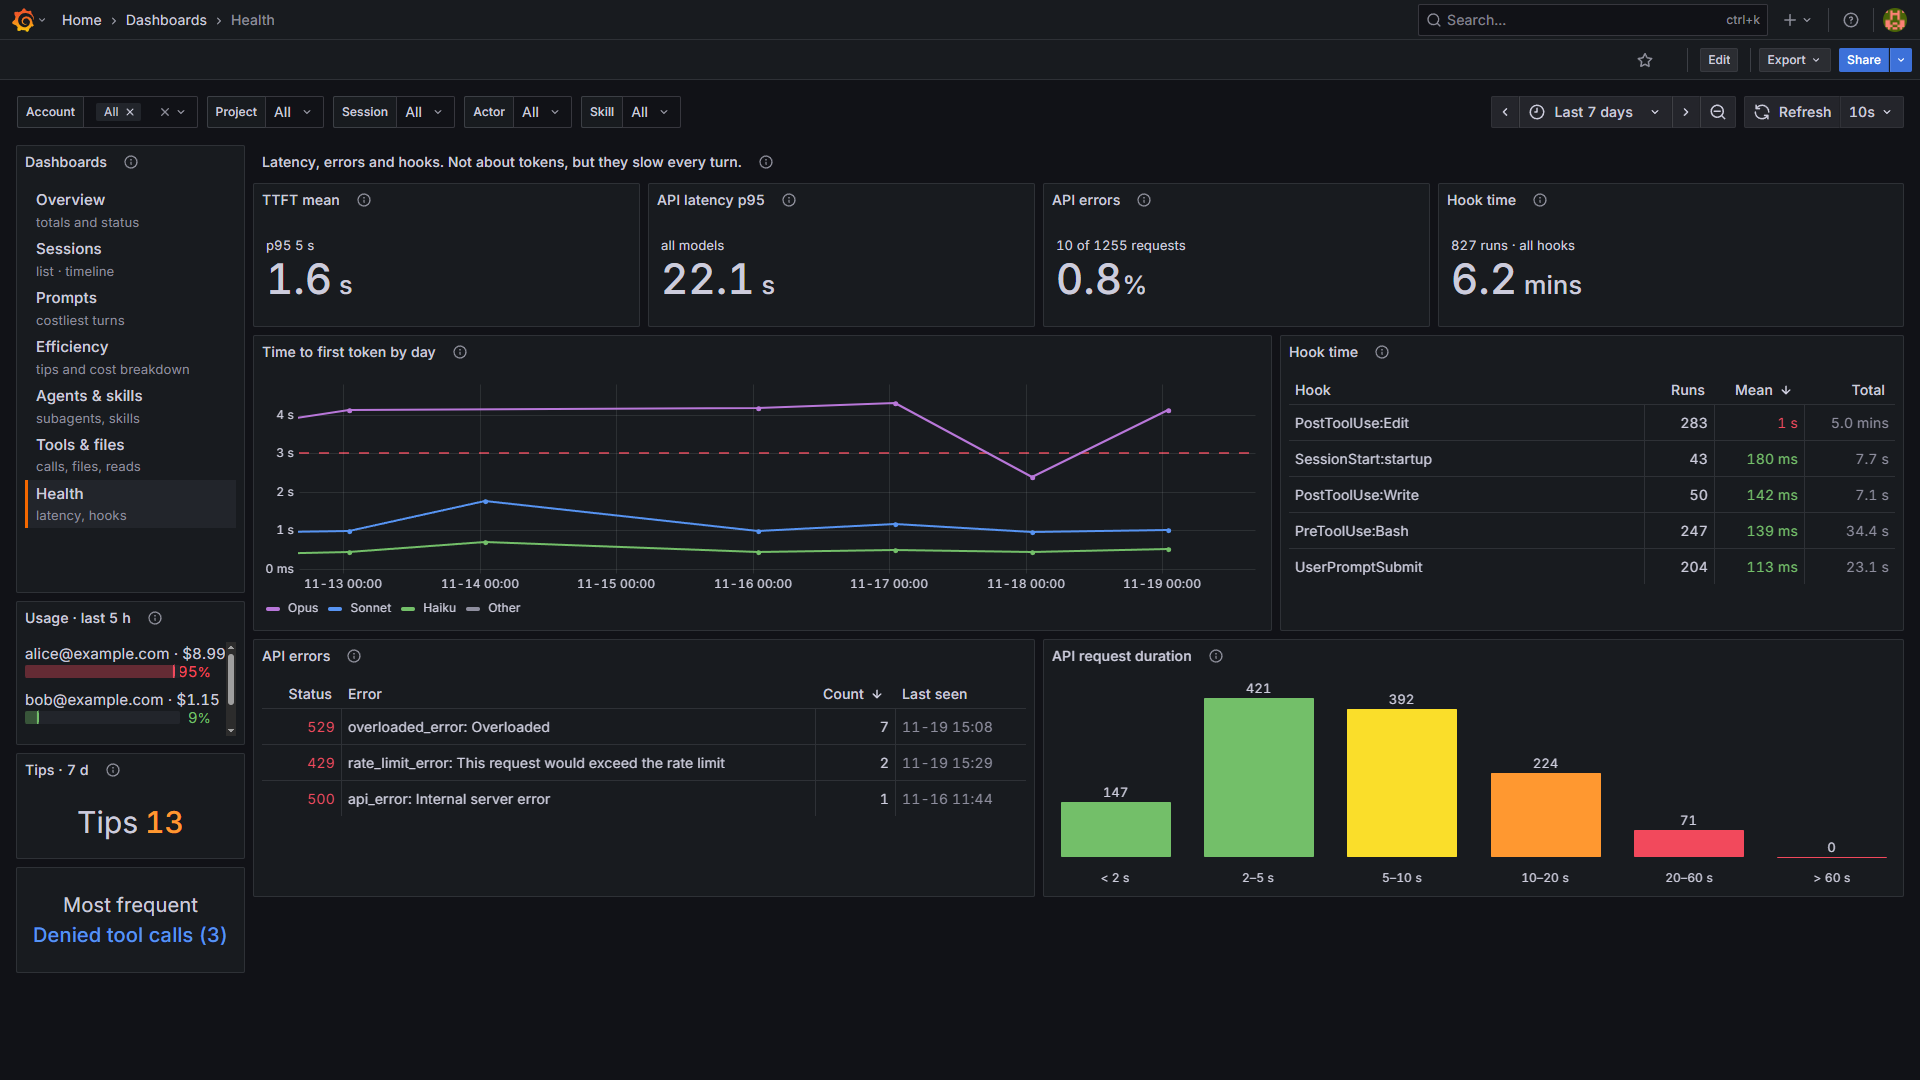
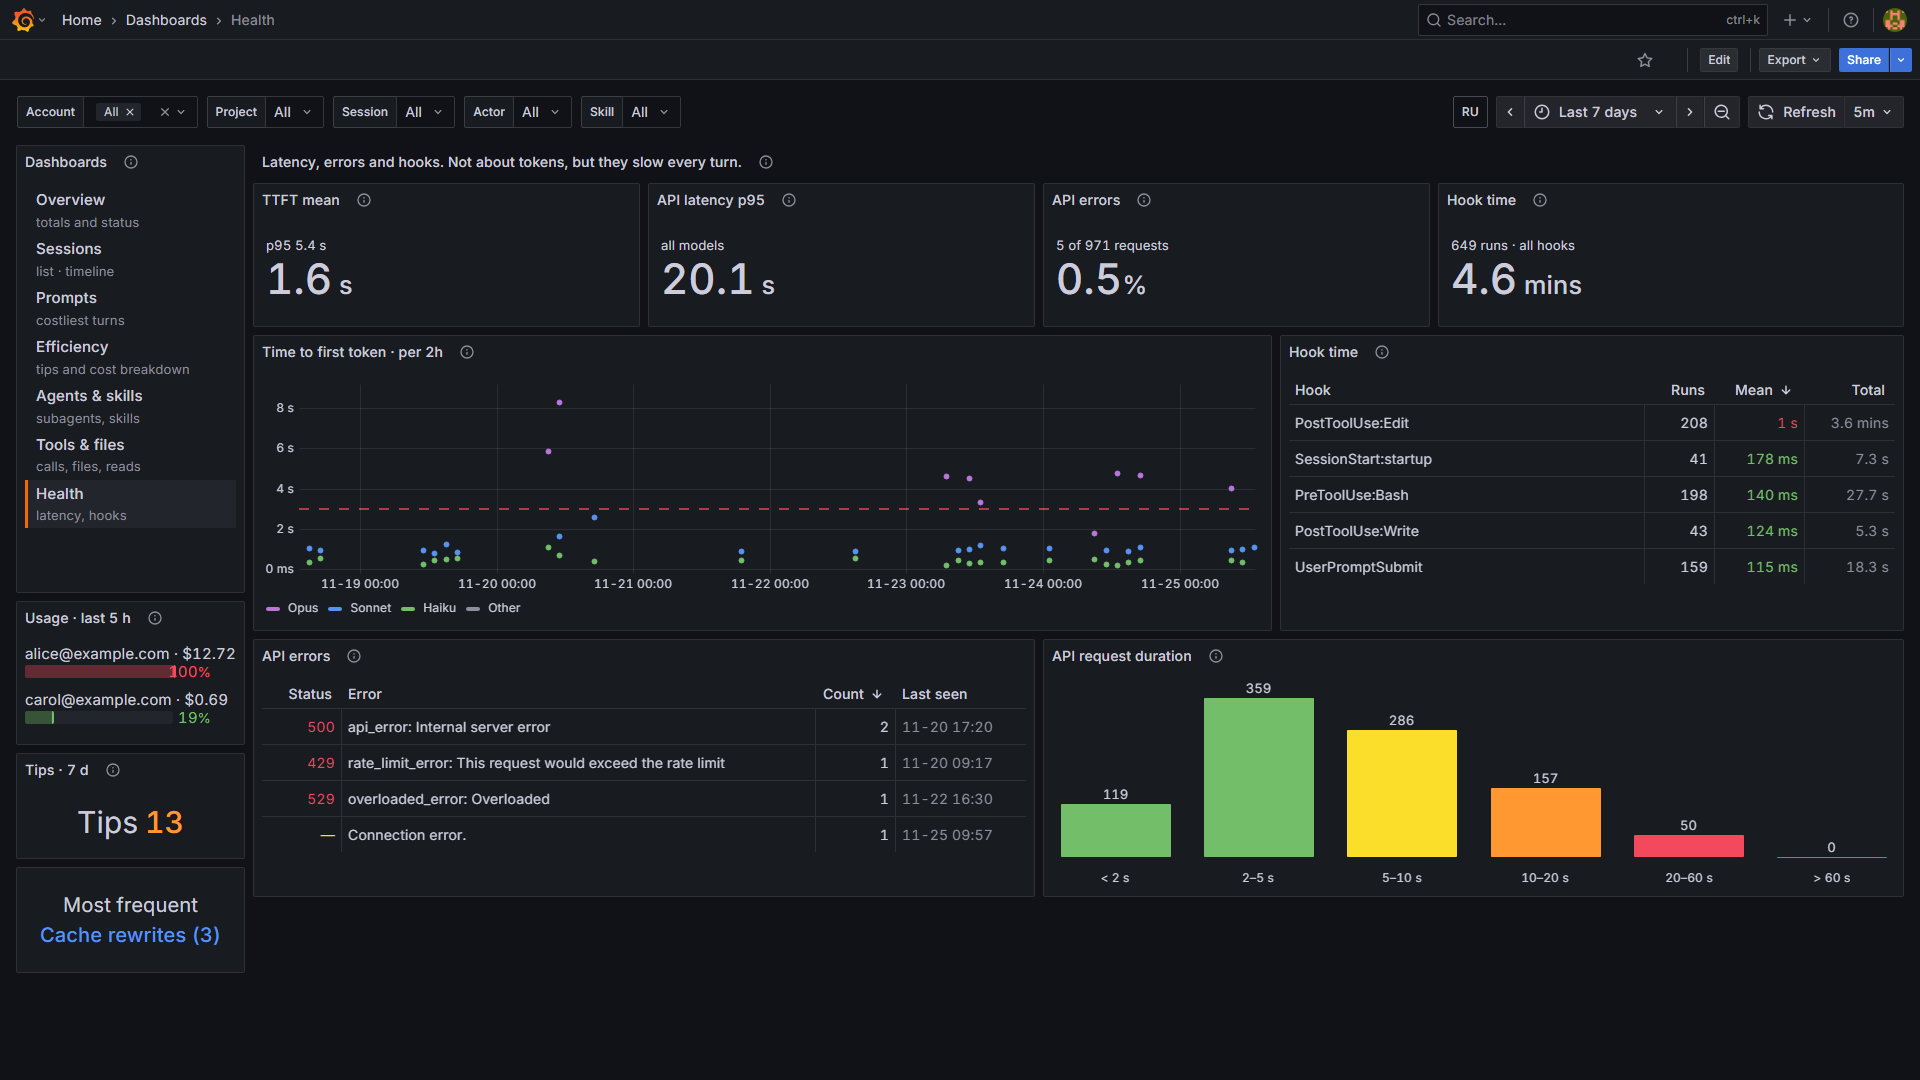
docs: Show cache rewrites on the dashboard screenshots
The site images still showed the per-day charts and had no requests
table on Sessions and no cache-rewrite tip on Efficiency, and the demo
data had no long pause before a big cache write to show them with.

So give the demo generator sessions that pause for 5 minutes or more
before each prompt and rewrite a large cache, one in each demo project,
the live web-shop session among them so the selected-session image
shows the rewrite in the requests table. Then take the Overview,
Sessions, Efficiency, Agents and Health images again in both languages.

Also print the cache tokens in the cache-rewrite tip as 669k or 2.19M:
the full "814.31 thousand" made the text column hard to read.

diff --git a/tools/docs-demo/generate.py b/tools/docs-demo/generate.py
@@ -528,7 +528,7 @@ def run_prompt(S, t, idx, text, slash=None, force_outlier=False):
     return t
 
 
-def run_session(S, t0, n_prompts, live=False, force_outlier=False, slow_think=False):
+def run_session(S, t0, n_prompts, live=False, force_outlier=False, rewrite=False):
     S.pid = ""
     t = t0
     emit(S, t, "mcp_server_connection", {"server_name": R.choice(["github", "postgres", "playwright"]),
@@ -563,8 +563,9 @@ def run_session(S, t0, n_prompts, live=False, force_outlier=False, slow_think=Fa
         if t > S.limit:
             break
         think = R.uniform(25, 200)
-        if slow_think:
-            think = R.uniform(30, 70)
+        if rewrite:
+            # a break longer than the cache lifetime before every prompt: its first request rewrites the cache
+            think = R.uniform(305, 400) if live else R.uniform(620, 1500)
         elif R.random() < 0.08:
             think = R.uniform(600, 2400)
         t += think
@@ -583,7 +584,7 @@ def meta(S, t, source):
                                    "cc_version": S.res["service.version"]}})
 
 
-def make_session(u, pname, t0, now, days_ago, bad_days, spike_days, **kw):
+def make_session(u, pname, t0, now, days_ago, bad_days, spike_days, ctx0=None, n=None, **kw):
     S = Session()
     S.u, S.pname, S.proj = u, pname, PROJECTS[pname]
     S.sid = new_uuid()
@@ -604,8 +605,10 @@ def make_session(u, pname, t0, now, days_ago, bad_days, spike_days, **kw):
              "os.version": u["osver"], "host.arch": "arm64" if u["os"] == "darwin" else "amd64", "host": u["host"]}
     if labelled:
         S.res["project"] = pname
-    n = R.choice([2, 3, 3, 4, 5, 6])
-    run_session(S, t0, n, **kw)
+    n_prompts = R.choice([2, 3, 3, 4, 5, 6])
+    if ctx0:  # a resumed session with a big context (the cache-rewrite sessions)
+        S.cs = Ctx(ctx0)
+    run_session(S, t0, n or n_prompts, **kw)
 
 
 def main():
@@ -627,12 +630,17 @@ def main():
                 if t0 > now - 600:
                     continue
                 make_session(u, wchoice(u["projects"]), t0, now, d, bad_days, spike_days)
-    alice, bob = USERS[0], USERS[1]
+    alice, bob, carol = USERS
     # the Explore outlier of the tips: a session two days ago
     make_session(alice, "web-shop", now - 2 * 86400 - 4 * 3600, now, 2, bad_days, spike_days, force_outlier=True)
     # a session still running now, and one that ended a while ago today
-    make_session(alice, "web-shop", now - 3300, now, 0, bad_days, spike_days, live=True, slow_think=True)
+    # (this one is resumed after breaks of 5-7 minutes with a big context: every prompt rewrites the cache,
+    # and it is the newest session, so the screenshot "session-selected" shows the rewrites in the table)
+    make_session(alice, "web-shop", now - 3300, now, 0, bad_days, spike_days, ctx0=75000, live=True, rewrite=True)
     make_session(bob, "mobile-app", now - 3 * 3600, now, 0, bad_days, spike_days)
+    # resumed sessions with a big context after long breaks in the other two projects: cache rewrites
+    make_session(bob, "data-pipeline", now - 36 * 3600, now, 1, bad_days, spike_days, ctx0=90000, n=5, rewrite=True)
+    make_session(carol, "mobile-app", now - 20 * 3600, now, 0, bad_days, spike_days, ctx0=80000, n=5, rewrite=True)
     ROWS.sort(key=lambda r: r["Timestamp"])
     out = sys.stdout
     for r in ROWS:

diff --git a/claude-context/plans/cache-rewrite.md b/claude-context/plans/cache-rewrite.md
@@ -1,7 +1,8 @@
 # Plan: make cache rewrites visible on the dashboards
 
-Status: approved 2026-11-24. All checks (dashboards, charts, new panels) run on the local WSL
-stack only; the user updates the Raspberry Pi and checks it there after the PR is merged.
+Status: done (2026-11-25). Approved 2026-11-24. All checks (dashboards, charts, new panels) run on
+the local WSL stack only; the user updates the Raspberry Pi and checks it there after the PR is
+merged.
 
 ## Goal
 
